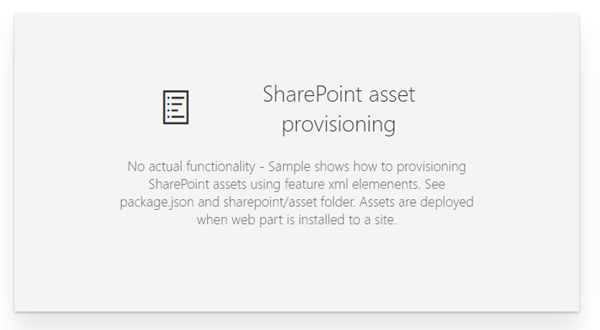
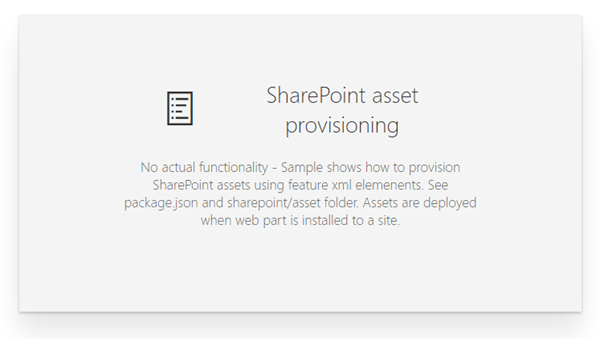
Updated screenshot for feature provisioning sample

diff --git a/samples/react-feature-framework/src/webparts/listProvisioning/components/ListProvisioning.tsx b/samples/react-feature-framework/src/webparts/listProvisioning/components/ListProvisioning.tsx
@@ -12,7 +12,7 @@ export default class ListProvisioning extends React.Component<IListProvisioningP
           <Placeholder
               icon={'ms-Icon--CustomList'}
               iconText={'SharePoint asset provisioning'}
-              description={'No actual functionality - Sample shows how to provisioning SharePoint assets using feature xml elemenents. See package.json and sharepoint/asset folder. Assets are deployed when web part is installed to a site.'} />
+              description={'No actual functionality - Sample shows how to provision SharePoint assets using feature xml elemenents. See package.json and sharepoint/asset folder. Assets are deployed when web part is installed to a site.'} />
         </div>
       </div>
     );
